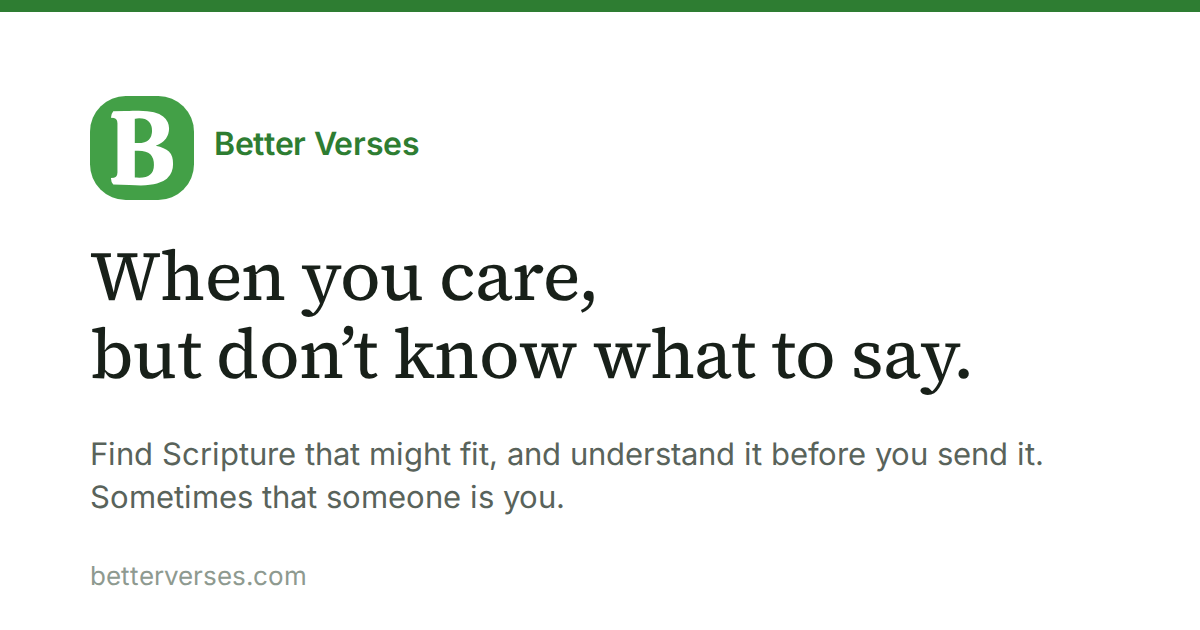
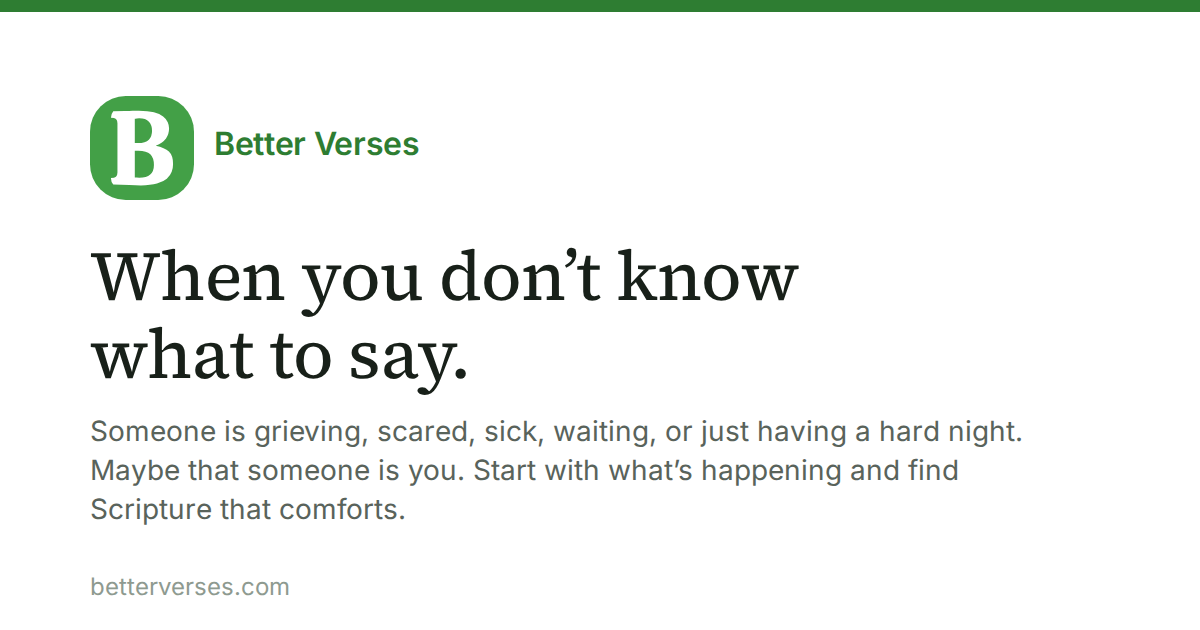
better og

diff --git a/src/lib/pages.js b/src/lib/pages.js
@@ -49,11 +49,11 @@ export function searchBox(opts) {
   opts = opts || {};
   return `<form id="search" class="finder" role="search" action="/search/" method="get">
     <div class="field">
-      <label for="q" class="${opts.label ? 'sr-only' : 'finder__ask'}">${esc(opts.label || 'What are they going through?')}</label>
+      <label for="q" class="${opts.label ? 'sr-only' : 'finder__ask'}">${esc(opts.label || 'What’s happening?')}</label>
       <input id="q" name="q" type="search" autocomplete="off" autocapitalize="sentences" enterkeyhint="search" spellcheck="false" placeholder="${esc(SEARCH_EXAMPLES[0])}" maxlength="140" value="${esc(opts.q || '')}" data-examples="${esc(JSON.stringify(SEARCH_EXAMPLES))}">
     </div>
     <div class="finder__row">
-      <button class="btn btn--primary" type="submit">${opts.cta || 'Find something to send'}</button>
+      <button class="btn btn--primary" type="submit">${opts.cta || 'Find something comforting →'}</button>
       <span class="finder__try">Try: ${TRY.map(([q, t]) => `<a href="/search/?q=${encodeURIComponent(q)}" data-q="${esc(q)}">${esc(t)}</a>`).join(' · ')}</span>
     </div>
     <p id="search-status" class="finder__status" aria-live="polite"></p>
@@ -75,8 +75,8 @@ export function home(ctx) {
   const d = daily.entry;
   const body = `
 <section class="hero" aria-labelledby="h-find">
-  <h1 id="h-find">When you care,<br class="hero__br"> but don’t know what to say.</h1>
-  <p class="hero__dek">Someone you care about is grieving, scared, sick, waiting, or having a hard night. Start with what’s happening. Better Verses helps you find Scripture that might fit, and understand it before you send it. Sometimes that someone is you.</p>
+  <h1 id="h-find">When you don’t know<br class="hero__br"> what to say.</h1>
+  <p class="hero__dek">Someone is grieving, scared, sick, waiting, or just having a hard night. Maybe that someone is you. Start with what’s happening and find Scripture that comforts.</p>
   ${searchBox()}
   <p class="fine">Sometimes people need space. Sometimes a meal, a ride, or someone willing to sit with them. And sometimes Scripture helps.</p>
 </section>
@@ -136,7 +136,7 @@ export function searchPage() {
   const body = `
 ${breadcrumbs([{ name: 'Home', url: '/' }, { name: 'Find a verse', url: '/search/' }])}
 <h1>Find a verse</h1>
-<p class="hero__dek">Tell me what they’re going through, in your own words. If I’ve written for that moment, you’ll get the verses I’d look at, with why each one fits. The whole Bible is one tap further down.</p>
+<p class="hero__dek">Start with what’s happening, in your own words. If I’ve written for that moment, you’ll get the verses I’d look at, with why each one fits. The whole Bible is one tap further down.</p>
 ${searchBox()}
 <section class="section" id="search-help">
   <h2>What you can type</h2>
@@ -281,7 +281,7 @@ ${breadcrumbs([{ name: 'Home', url: '/' }, { name: 'Random verse', url: '/random
 </div>
 <div id="random" aria-live="polite"><noscript><p class="note">This page needs JavaScript. You can <a href="/topics/">browse topics</a> instead.</p></noscript></div>
 <script type="application/json" id="random-data">${JSON.stringify(filters)}</script>
-<p class="muted" style="margin-top:1rem">Random means random: the verse isn’t chosen for you. If you need one for something specific, <a href="/">tell us what you’re facing</a>.</p>`;
+<p class="muted" style="margin-top:1rem">Random means random: the verse isn’t chosen for you. If you need one for something specific, <a href="/">start with what’s happening</a>.</p>`;
   return layout({ path: '/random/', finder: true, title: 'Random Bible Verse', description: 'Get a random Bible verse from a curated set, with a note on its context. Filter by hope, peace, courage, wisdom, work, family, change, or waiting.', body, ld: [crumbsLd([{ name: 'Home', url: '/' }, { name: 'Random verse', url: '/random/' }])] });
 }
 

diff --git a/scripts/og-template.html b/scripts/og-template.html
@@ -6,7 +6,7 @@ body{margin:0;width:1200px;height:630px;background:#FFFFFF;font-family:Inter;pos
 .mark{position:absolute;left:90px;top:96px;width:104px;height:104px}
 .name{position:absolute;left:214px;top:124px;font-size:32px;font-weight:600;color:#2E7D32;letter-spacing:-.01em}
 h1{position:absolute;left:90px;top:236px;margin:0;font-family:SS;font-weight:450;font-size:70px;line-height:1.12;color:#182019;letter-spacing:-.01em}
-p{position:absolute;left:90px;top:432px;margin:0;font-size:31px;line-height:1.4;color:#59635B;width:960px}
-.u{position:absolute;left:90px;top:560px;font-size:26px;color:#8E9A90}
+p{position:absolute;left:90px;top:412px;margin:0;font-size:28px;line-height:1.4;color:#59635B;width:980px}
+.u{position:absolute;left:90px;top:572px;font-size:24px;color:#8E9A90}
 </style></head><body><div class="bar"></div><svg class="mark" xmlns="http://www.w3.org/2000/svg" viewBox="0 0 64 64" width="104" height="104"><rect width="64" height="64" rx="22" fill="#43A047"/><path d="M31.32 55.00Q28.28 55.00 24.27 54.74Q20.26 54.48 14.31 54.48Q12.88 52.74 12.88 50.41Q15.08 50.41 15.99 49.66Q16.89 48.92 16.89 47.11V16.70Q16.89 14.89 15.99 14.14Q15.08 13.40 12.88 13.40Q12.88 11.07 14.31 9.32Q18.90 9.32 21.62 9.23Q24.33 9.13 26.24 9.06Q28.15 9.00 30.09 9.00Q35.72 9.00 39.34 10.00Q42.97 11.01 45.00 12.59Q47.04 14.18 47.85 16.08Q48.66 17.99 48.66 19.87Q48.66 23.49 46.78 26.08Q44.91 28.67 40.44 30.54Q46.01 31.71 48.56 34.17Q51.12 36.63 51.12 41.80Q51.12 44.32 50.28 46.69Q49.44 49.05 47.27 50.92Q45.10 52.80 41.22 53.90Q37.34 55.00 31.32 55.00ZM29.51 28.99Q34.23 28.99 36.21 26.92Q38.18 24.85 38.18 21.36Q38.18 17.86 36.27 15.79Q34.36 13.72 30.22 13.72Q29.57 13.72 28.83 13.79Q28.09 13.85 27.57 13.98V28.86Q28.02 28.93 28.54 28.96Q29.06 28.99 29.51 28.99ZM30.29 50.28Q39.34 50.28 39.34 42.45Q39.34 38.05 37.11 35.85Q34.88 33.65 29.70 33.65Q29.19 33.65 28.57 33.68Q27.96 33.71 27.57 33.71V50.08Q28.02 50.15 28.73 50.21Q29.44 50.28 30.29 50.28Z" fill="#FFFFFF"/></svg><div class="name">Better Verses</div>
-<h1>When you care,<br>but don’t know what to say.</h1><p>Find Scripture that might fit, and understand it before you send it. Sometimes that someone is you.</p><div class="u">betterverses.com</div></body></html>
+<h1>When you don’t know<br>what to say.</h1><p>Someone is grieving, scared, sick, waiting, or just having a hard night. Maybe that someone is you. Start with what’s happening and find Scripture that comforts.</p><div class="u">betterverses.com</div></body></html>

diff --git a/site.config.js b/site.config.js
@@ -3,8 +3,8 @@ export default {
   name: 'Better Verses',
   domain: 'betterverses.com',
   url: 'https://betterverses.com',               // canonical origin, no trailing slash
-  tagline: 'The right verse to comfort someone you care about.',
-  defaultDescription: "Find the right Bible verse to comfort someone you care about. Sometimes that someone is you. Search the whole Bible in plain English, or start from the moment: grief, surgery, job loss, a night you can't sleep. Every verse comes with its context.",
+  tagline: 'When you don’t know what to say.',
+  defaultDescription: "When you don’t know what to say. Someone is grieving, scared, sick, waiting, or having a hard night; maybe that someone is you. Start with what’s happening and find Scripture that comforts, with the context to use it well.",
   translation: { name: 'World English Bible', abbr: 'WEB', note: 'Public Domain' },
   // The WEB renders the divine name as "Yahweh". Set to 'the LORD' to use the traditional rendering
   // (as in the WEB British Edition) everywhere the text is displayed. Either is public domain.

diff --git a/build.js b/build.js
@@ -187,7 +187,7 @@ Every verse is quoted from the World English Bible (public domain) and comes wit
 
 ## Start here
 
-${md('/', 'Home', 'Find the right Bible verse to comfort someone you care about; search every verse in plain English or start from the moment they are in')}
+${md('/', 'Home', 'When you don’t know what to say: start with what’s happening and find Scripture that comforts, with the context to use it well')}
 ${md('/search/', 'Find a verse', 'Say what someone is going through and get hand-picked verses with why each fits; the whole Bible is one tap further')}
 ${md('/topics/', 'All topics', 'Every page, grouped by feelings, work, family, health, changes, decisions, money, and occasions')}
 ${md('/today/', 'Verse for today', 'One verse a day, with context and a reflection question')}

diff --git a/README.md b/README.md
@@ -1,6 +1,6 @@
 # Better Verses
 
-**betterverses.com** · When you care, but don’t know what to say.
+**betterverses.com** · When you don’t know what to say.
 
 There is a pause before you hit send.
 
